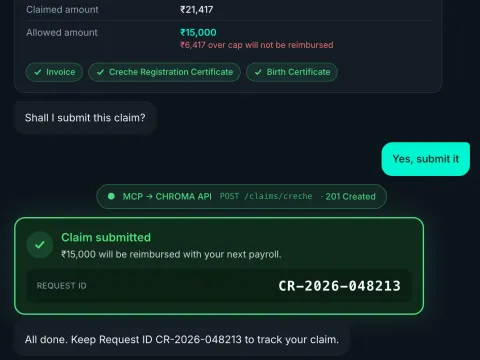
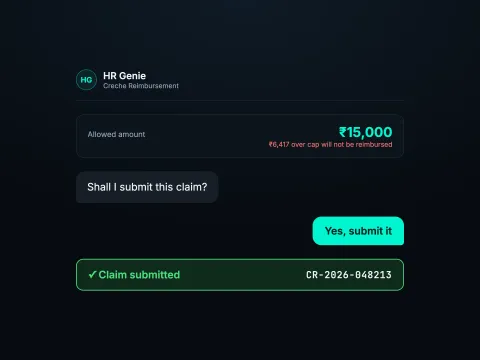
Give HR Genie a calmer thumbnail
The crop of the walkthrough's chat packed six pieces of UI into the
frame. The thumbnail is now composed from the same moment, the end of
the creche happy path, with only four: the capped amount, "Shall I
submit this claim?", "Yes, submit it", and the Request ID. Every line
is the agent's own text, in hr-genie-flows' palette and type. The
source is scripts/hr-genie-thumb.html.

diff --git a/scripts/hr-genie-thumb.html b/scripts/hr-genie-thumb.html
@@ -1,0 +1,40 @@
+<!doctype html>
+<html><head><meta charset="utf-8">
+<!-- Source for public/images/HR Genie/HR-Genie-Thumbnail.webp.
+     The end of the creche happy path from hr-genie-flows, every line as the
+     agent says it, in that project's palette and type.
+     Render: headless Chrome at 1200×900, device scale factor 2. -->
+<link href="https://fonts.googleapis.com/css2?family=Inter:wght@400;500;600;700&family=JetBrains+Mono:wght@500&display=swap" rel="stylesheet">
+<style>
+  /* Same palette and type as hr-genie-flows (tailwind.config.js there). */
+  * { margin:0; padding:0; box-sizing:border-box; }
+  html, body { width:1200px; height:900px; }
+  body { background: radial-gradient(120% 90% at 50% 0%, #0f1a26 0%, #070b10 70%); font-family: Inter, sans-serif; color:#f1f5f9;
+         display:flex; align-items:center; justify-content:center; }
+  .chat { width: 820px; display:flex; flex-direction:column; gap: 34px; }
+  .head { display:flex; align-items:center; gap:16px; padding-bottom: 26px; border-bottom: 1px solid #243140; }
+  .av { width:52px; height:52px; border-radius:50%; background:#0f2226; border:1.5px solid rgba(1,245,209,.45); color:#01f5d1;
+        display:grid; place-items:center; font-weight:700; font-size:19px; }
+  .head b { font-size:24px; font-weight:600; display:block; }
+  .head span { font-size:17px; color:#94a3b8; }
+  .row { display:flex; }
+  .agent { background:#161f28; border-radius: 22px 22px 22px 8px; padding: 22px 28px; font-size:26px; line-height:1.35; }
+  .user { margin-left:auto; background:#01f5d1; color:#04201c; border-radius: 22px 22px 8px 22px; padding: 20px 30px; font-size:26px; font-weight:600; }
+  .sum { background:#0d141c; border:1px solid #243140; border-radius: 18px; padding: 22px 28px; display:flex; justify-content:space-between; align-items:baseline; }
+  .sum .l { font-size:19px; color:#94a3b8; }
+  .sum .v { text-align:right; }
+  .sum .v b { font-size:34px; color:#01f5d1; font-weight:700; display:block; }
+  .sum .v span { font-size:17px; color:#f87171; }
+  .done { border:2px solid #4ade80; background:#0f2a1b; border-radius:18px; padding: 22px 28px; display:flex; align-items:center; justify-content:space-between; }
+  .done b { color:#4ade80; font-size:26px; font-weight:600; }
+  .done code { font-family:'JetBrains Mono', monospace; font-size:24px; letter-spacing:.04em; color:#f1f5f9; }
+</style></head>
+<body>
+  <div class="chat">
+    <div class="head"><div class="av">HG</div><div><b>HR Genie</b><span>Creche Reimbursement</span></div></div>
+    <div class="sum"><div class="l">Allowed amount</div><div class="v"><b>₹15,000</b><span>₹6,417 over cap will not be reimbursed</span></div></div>
+    <div class="row"><div class="agent">Shall I submit this claim?</div></div>
+    <div class="row"><div class="user">Yes, submit it</div></div>
+    <div class="done"><b>✓ Claim submitted</b><code>CR-2026-048213</code></div>
+  </div>
+</body></html>
